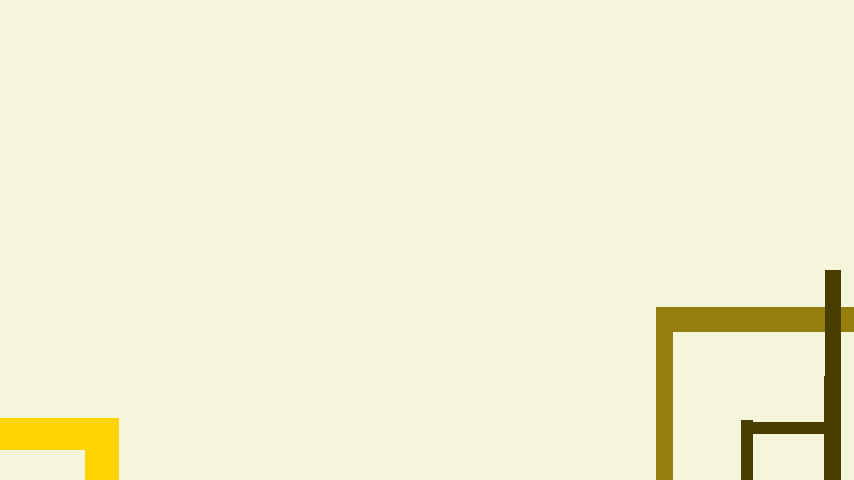
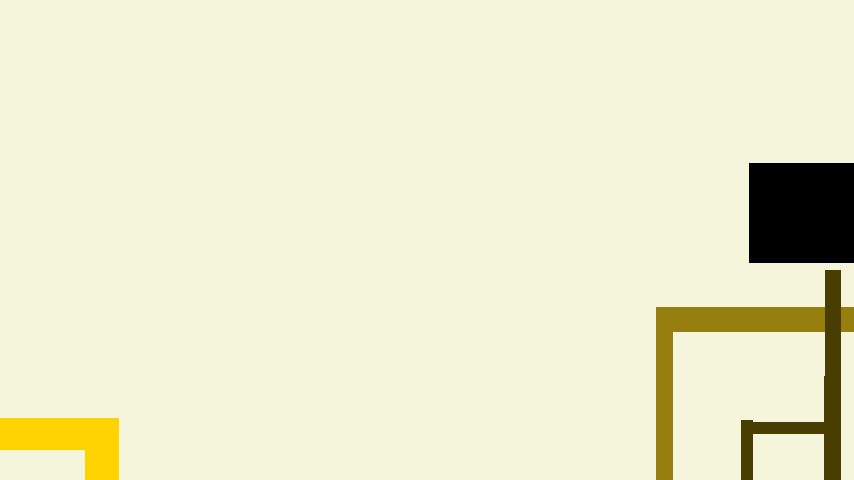
finalizing
added in 2 ending, finest last scene, added in robber drawing, improved in animation

Changed region(s): [[0.8525, 0.3125, 1.0, 0.5625]]

diff --git a/game.js b/game.js
@@ -75,45 +75,7 @@ class firstRoom extends AdventureScene {
                 });
             })
 
-            let knife = this.add.text(this.w * 0.1, this.w * 0.1, "📱 knife")
-            .setFontSize(this.s * 2)
-            .setColor("#0000ff")
-            .setInteractive()
-            .on('pointerover', () => {
-                this.showMessage("It's a knife.")
-            })
-            .on('pointerdown', () => {
-                this.showMessage("You pick up the knife.");
-                this.gainItem('knife');
-                this.tweens.add({
-                    targets: knife,
-                    y: `-=${2 * this.s}`,
-                    alpha: { from: 1, to: 0 },
-                    duration: 500,
-                    onComplete: () => knife.destroy()
-                });
-            })
-
-            let light = this.add.text(this.w * 0.3, this.w * 0.1, "🔦 flashlight")
-            .setFontSize(this.s * 2)
-            .setColor("#0000ff")
-            .setInteractive()
-            .on('pointerover', () => {
-                this.showMessage("It's a flashlight.")
-            })
-            .on('pointerdown', () => {
-                this.showMessage("You pick up the flashlight.");
-                this.gainItem('light');
-                this.tweens.add({
-                    targets: light,
-                    y: `-=${2 * this.s}`,
-                    alpha: { from: 1, to: 0 },
-                    duration: 500,
-                    onComplete: () => light.destroy()
-                });
-            })
-
-           let door = this.add.text(this.w * 0.05, this.h * 0.15, "🚪 door")
+        let door = this.add.text(this.w * 0.05, this.h * 0.15, "🚪 door")
             .setFontSize(this.s * 2)
             .setColor("#0000ff")
             .setInteractive()
@@ -125,6 +87,13 @@ class firstRoom extends AdventureScene {
                 door.setText("🚪 Going out");
                 this.gotoScene('outside');
             })
+        this.tweens.add({
+                targets: door,
+                x: '+=10',
+                duration: 1000,
+                yoyo: true,
+                repeat: -1
+            });
     }
 
     resizeBackground(width, height) {
@@ -297,6 +266,204 @@ class Hall extends AdventureScene {
     }
 }
 
+class Kitchen extends AdventureScene {
+    constructor() {
+        super("kitchen", "Kitchen.");
+    }
+
+    preload() {
+        this.load.path = "./assets/";
+        this.load.image("bg", "image/kitchen.png");
+    }  
+
+    onEnter() {
+
+        let bg = this.add.image(0, 0, "bg");
+
+        // Set the position to the center of the canvas
+        bg.setPosition(this.cameras.main.centerX - (this.w * 0.125), this.cameras.main.centerY);
+        // Scale the image to fit the canvas
+        bg.setScale((this.cameras.main.width - this.w * 0.25) / bg.width, this.cameras.main.height / bg.height);
+
+        this.add.text(0, this.h * 0.9, "Just go back")
+            .setFontSize(this.s * 2)
+            .setColor("#000000")
+            .setInteractive()
+            .on('pointerover', () => {
+                this.showMessage("I should go back to my room.");
+            })
+            .on('pointerdown', () => {
+                this.gotoScene('hall');
+            });
+
+            let text = this.add.text(this.w * 0.5, this.h * 0.2, "🚪 Living room ➡")
+            .setFontSize(this.s * 2)
+            .setColor("#0000ff")
+            .setInteractive()
+            .on('pointerover', () => {
+                this.showMessage("Go to the living room");
+            })
+            .on('pointerdown', () => {
+                this.showMessage("*squeak*");
+                text.setText("🚪 Going in");
+                this.gotoScene('final');
+            })
+
+            this.tweens.add({
+                targets: text,
+                x: '-=10',
+                duration: 1000,
+                yoyo: true,
+                repeat: -1
+            });
+
+            let plates =  this.add.rectangle(this.w * 0.225, this.h * 0.47, this.w * 0.1, this.h * 0.1).setOrigin(0, 0).setFillStyle(0xffffff, 0)
+            .setInteractive()
+            .on('pointerover', () => {
+                this.showMessage("Dirty plates from last night, looks like someone didn't do dish.");
+            })
+            .on('pointerdown', () => {
+                this.showMessage("You are too lazy to help them clean up.");
+            })
+
+            let cabinet1 =  this.add.rectangle(this.w * 0.25, this.h * 0.7, this.w * 0.1, this.h * 0.23).setOrigin(0, 0).setFillStyle(0xffffff, 0)
+            .setInteractive()
+            .on('pointerover', () => {
+                this.showMessage("An empty cabinet, seems like someone just looked through it.");
+            })
+            
+            let cabinet2 =  this.add.rectangle(this.w * 0.42, this.h * 0.7, this.w * 0.1, this.h * 0.23).setOrigin(0, 0).setFillStyle(0xffffff, 0)
+            .setInteractive()
+            .on('pointerover', () => {
+                this.showMessage("An empty cabinet, seems like someone just looked through it.");
+            })
+
+            let cabinet3 =  this.add.rectangle(this.w * 0.59, this.h * 0.7, this.w * 0.1, this.h * 0.23).setOrigin(0, 0).setFillStyle(0xffffff, 0)
+            .setInteractive()
+            .on('pointerover', () => {
+                this.showMessage("An empty cabinet, seems like someone just looked through it.");
+            })
+
+            let knife = this.add.text(this.w * 0.5, this.h * 0.5, "Knife\n🔪")
+            .setFontSize(this.s * 2)
+            .setColor("#0000ff")
+            .setInteractive()
+            .on('pointerover', () => {
+                this.showMessage("It's a kitchen knife.")
+            })
+            .on('pointerdown', () => {
+                this.showMessage("You pick up the knife.");
+                this.gainItem('knife');
+                this.tweens.add({
+                    targets: knife,
+                    y: `-=${2 * this.s}`,
+                    alpha: { from: 1, to: 0 },
+                    duration: 500,
+                    onComplete: () => knife.destroy()
+                });
+            })
+
+    }
+}
+
+class LivingRoom extends AdventureScene {
+    constructor() {
+        super("final", "Living Room.");
+    }
+
+    preload() {
+        this.load.path = "./assets/";
+        this.load.image("main", "image/main.png");
+        this.load.image("robber", "image/robber.png");
+    }  
+
+    onEnter() {
+
+        let mainRoom = this.add.image(0, 0, "main");
+
+        // Set the position to the center of the canvas
+        mainRoom.setPosition(this.cameras.main.centerX - (this.w * 0.125), this.cameras.main.centerY);
+        // Scale the image to fit the canvas
+        mainRoom.setScale((this.cameras.main.width - this.w * 0.25) / mainRoom.width, this.cameras.main.height / mainRoom.height);
+
+        let flashed = false
+
+        let rob = this.add.image(0, 0, "robber")
+            .setInteractive()
+            .on('pointerover', () => {
+                this.showMessage("A ROBBER!");
+            })
+            .on('pointerdown', () => {
+                if (this.hasItem("knife")) {
+                    this.showMessage("You stabbed the robber");
+                    this.tweens.add({
+                        targets: rob,
+                        y: `-=${2 * this.s}`,
+                        alpha: { from: 1, to: 0 },
+                        duration: 1000,
+                        onComplete: () => rob.destroy()
+                    });
+                    this.gotoScene('good')
+                }
+                else if (this.hasItem("light")) {
+                    this.showMessage("You temporarily blind the robber");
+                    flashed = true;
+                }
+                else if (this.hasItem("phone")) {
+                    this.showMessage("You called the police, but the robber notice you");
+                    this.tweens.add({
+                        targets: rob,
+                        scale: 3, // zoom in by a factor of 2
+                        duration: 1000, // 1 second duration
+                        ease: 'Power2', // easing function
+                        onComplete: () => this.gotoScene('bad')
+                    });
+                }
+                else {
+                    this.showMessage("The robber notice you");
+                    this.tweens.add({
+                        targets: rob,
+                        scale: 3, // zoom in by a factor of 2
+                        duration: 1000, // 1 second duration
+                        ease: 'Power2', // easing function
+                        onComplete: () => this.gotoScene('bad')
+                    });
+                }
+            })
+
+        rob.setPosition(this.cameras.main.centerX - (this.w * 0.125), this.cameras.main.centerY + this.h * 0.1);
+
+        rob.setScale((this.cameras.main.width - this.w * 0.25) / mainRoom.width, this.cameras.main.height / mainRoom.height);
+        
+        let text = this.add.text(this.w * 0, this.h * 0.2, "⬅ Kitchen 🚪")
+            .setFontSize(this.s * 2)
+            .setColor("#0000ff")
+            .setInteractive()
+            .on('pointerover', () => {
+                this.showMessage("Run to the kitchen");
+            })
+            .on('pointerdown', () => {
+                if (flashed == true) {
+                this.showMessage("Running to the kitchen");
+                text.setText("Going in 🚪");
+                this.gotoScene('kitchen');
+                }
+                else{
+                    this.showMessage("Have to distract the robber first!");
+                }
+            })
+
+            this.tweens.add({
+                targets: text,
+                x: '-=10',
+                duration: 1000,
+                yoyo: true,
+                repeat: -1
+            });
+
+    }
+}
+
 class Intro extends Phaser.Scene {
     constructor() {
         super('intro')
@@ -327,12 +494,33 @@ class Neutral extends Phaser.Scene {
         super('neutral');
     }
     create() {
-        this.add.text(50, 50, "That's all!").setFontSize(50);
+        this.add.text(50, 50, "You went back to sleep!").setFontSize(50);
         this.add.text(50, 100, "Click anywhere to restart.").setFontSize(20);
         this.input.on('pointerdown', () => this.scene.start('firstRoom'));
     }
 }
 
+class Good extends Phaser.Scene {
+    constructor() {
+        super('good');
+    }
+    create() {
+        this.add.text(50, 50, "You protected yourself from the robber!").setFontSize(50);
+        this.add.text(50, 100, "Click anywhere to restart.").setFontSize(20);
+        this.input.on('pointerdown', () => this.scene.start('firstRoom'));
+    }
+}
+
+class Bad extends Phaser.Scene {
+    constructor() {
+        super('bad');
+    }
+    create() {
+        this.add.text(50, 50, "The robber killed you!").setFontSize(50);
+        this.add.text(50, 100, "Click anywhere to restart.").setFontSize(20);
+        this.input.on('pointerdown', () => this.scene.start('firstRoom'));
+    }
+}
 const game = new Phaser.Game({
     scale: {
         mode: Phaser.Scale.FIT,
@@ -340,7 +528,7 @@ const game = new Phaser.Game({
         width: 1920,
         height: 1080
     },
-    scene: [Intro, firstRoom, outside, Hall, Neutral, Outro],
+    scene: [Intro, firstRoom, outside, Hall, Kitchen, LivingRoom, Neutral, Good, Bad, Outro],
     title: "Adventure Game",
 });
 

diff --git a/adventure.js b/adventure.js
@@ -20,7 +20,7 @@ class AdventureScene extends Phaser.Scene {
 
         this.cameras.main.fadeIn(this.transitionDuration, 0, 0, 0);
 
-        this.add.rectangle(this.w * 0.75, 0, this.w * 0.25, this.h).setOrigin(0, 0).setFillStyle(0);
+        this.add.rectangle(this.w * 0.75, 0, this.w * 0.25, this.h).setOrigin(0, 0).setFillStyle(0x808080, 1);
         this.add.text(this.w * 0.75 + this.s, this.s)
             .setText(this.name)
             .setStyle({ fontSize: `${3 * this.s}px` })

diff --git a/index.html b/index.html
@@ -5,7 +5,7 @@
     <meta http-equiv="X-UA-Compatible" content="IE=edge">
     <meta name="viewport" content="width=device-width, initial-scale=1.0">
     <title>Adventure Game</title>
-    <script src="phaser.js"></script>
+    <script src="./lib/phaser.js"></script>
     <script src="adventure.js"></script>
     <script src="game.js"></script>
 </head>
